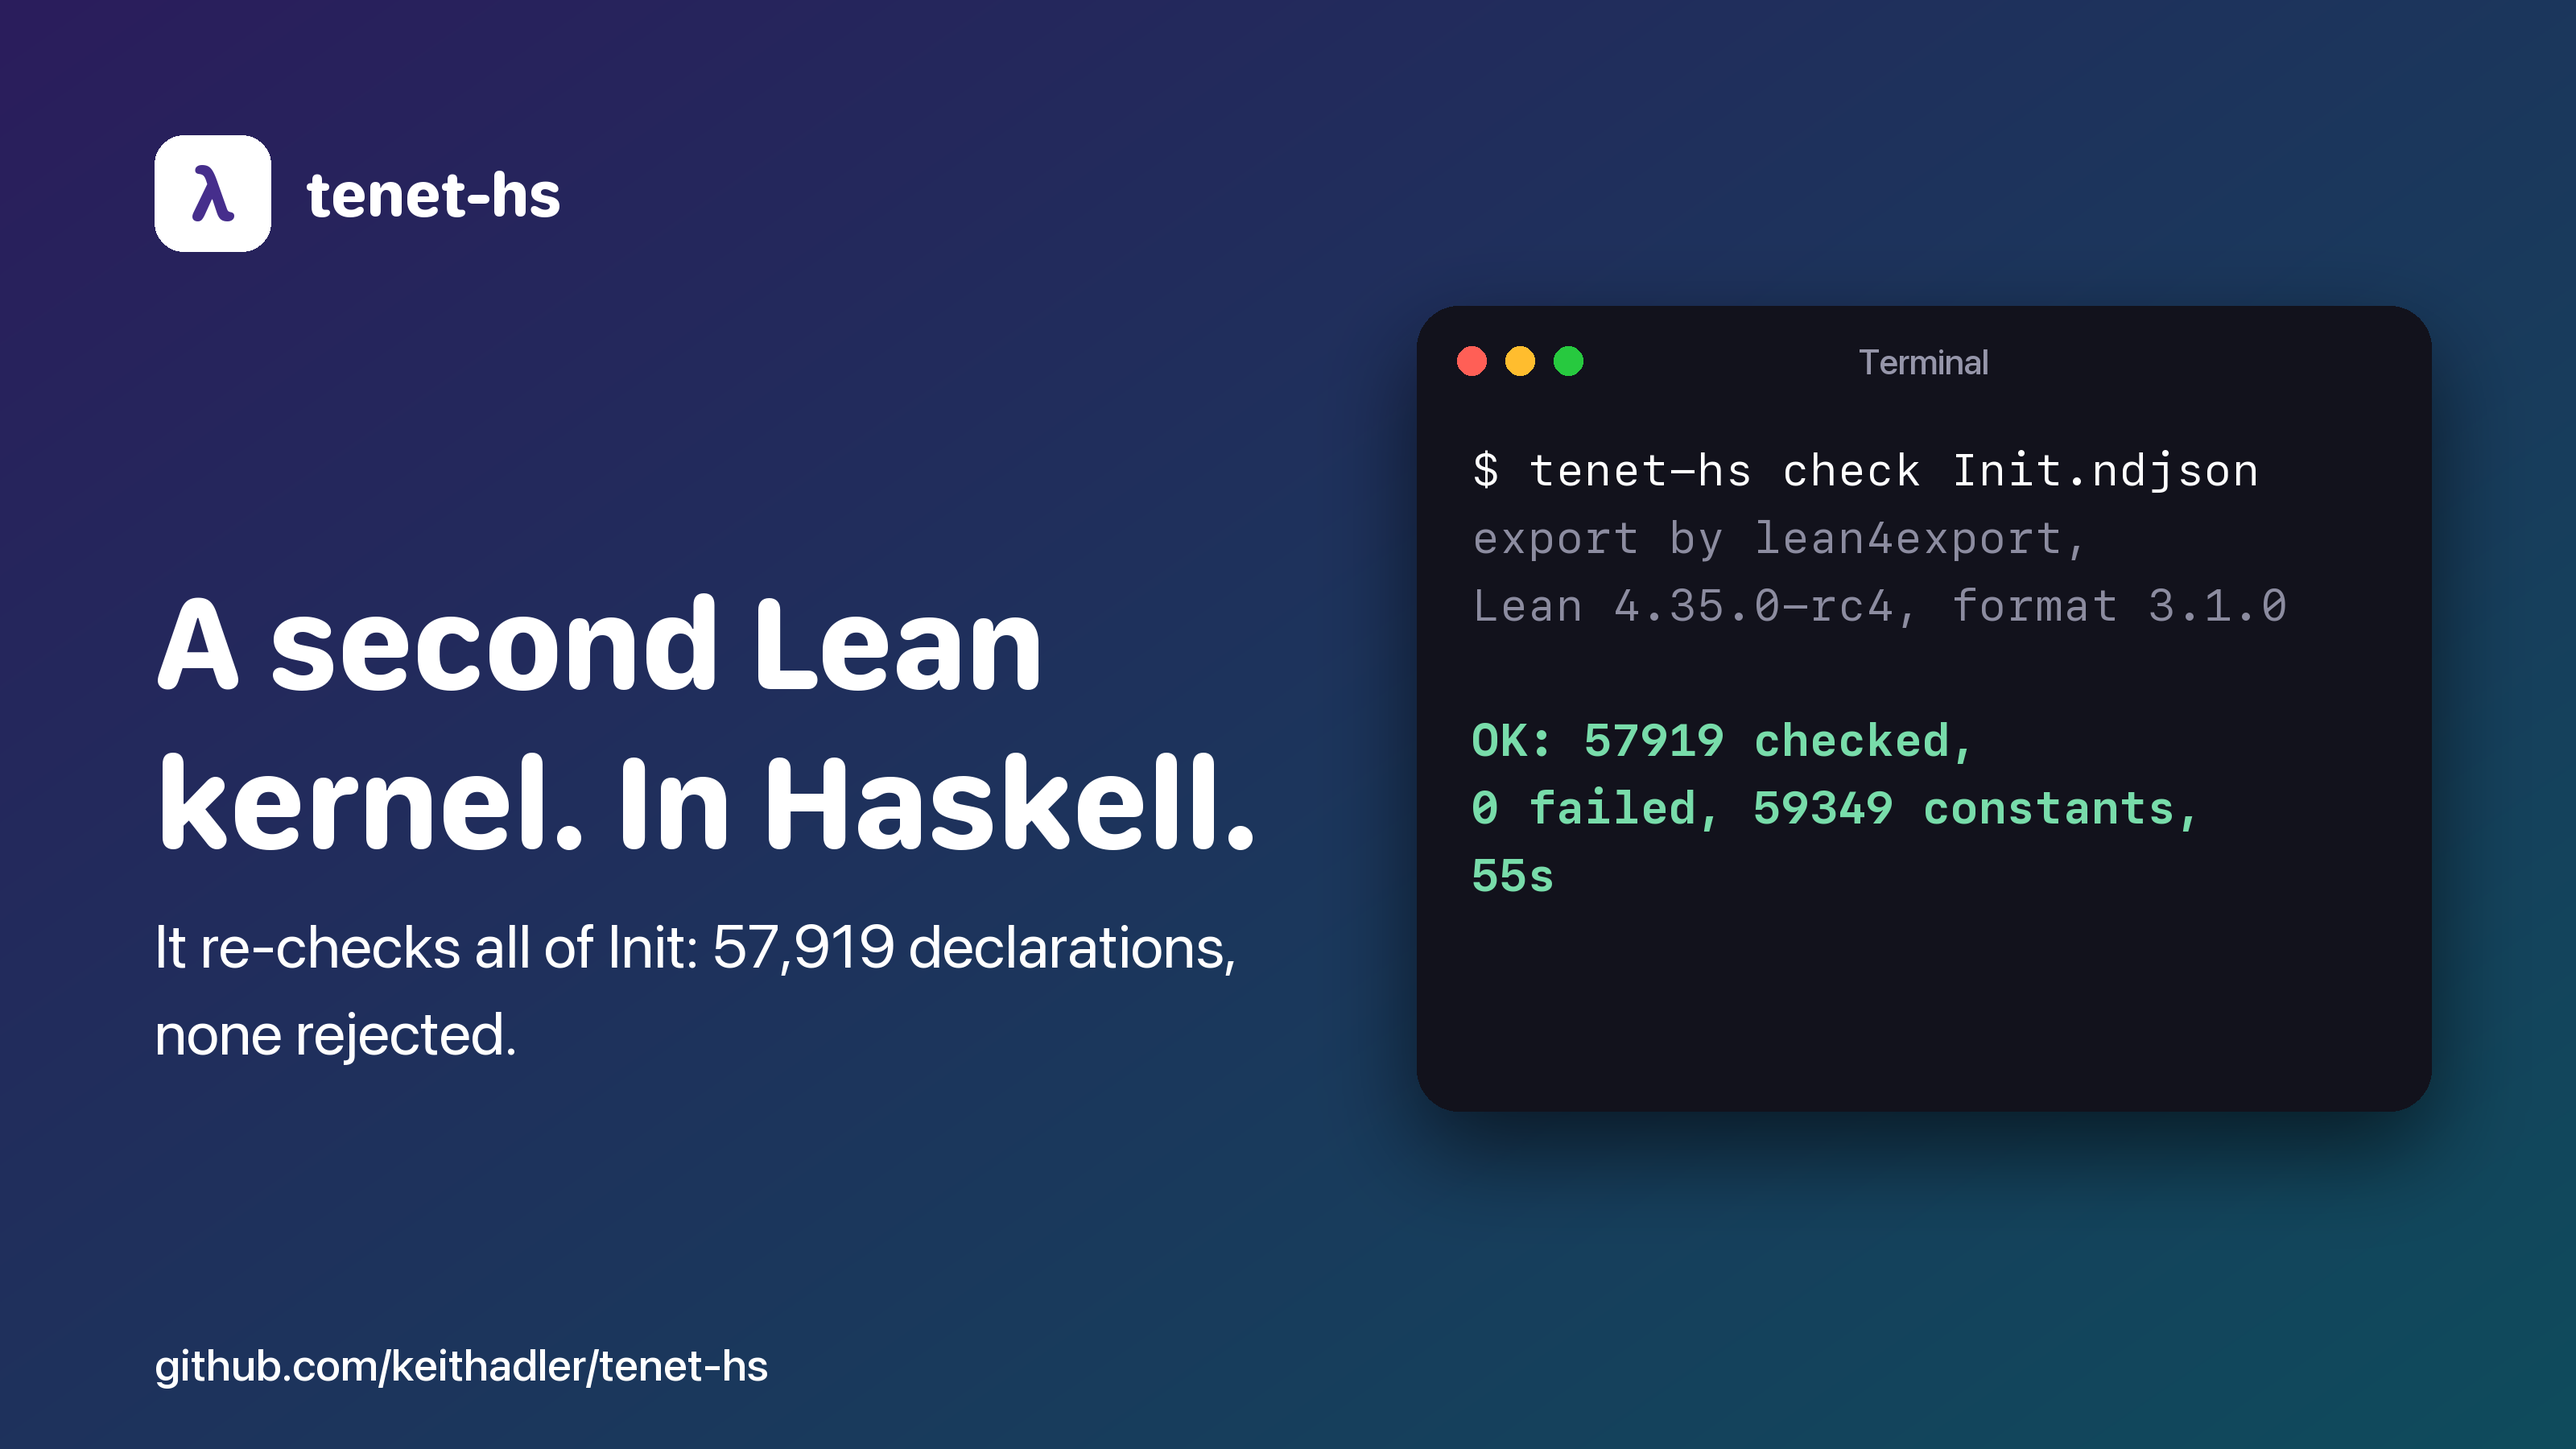
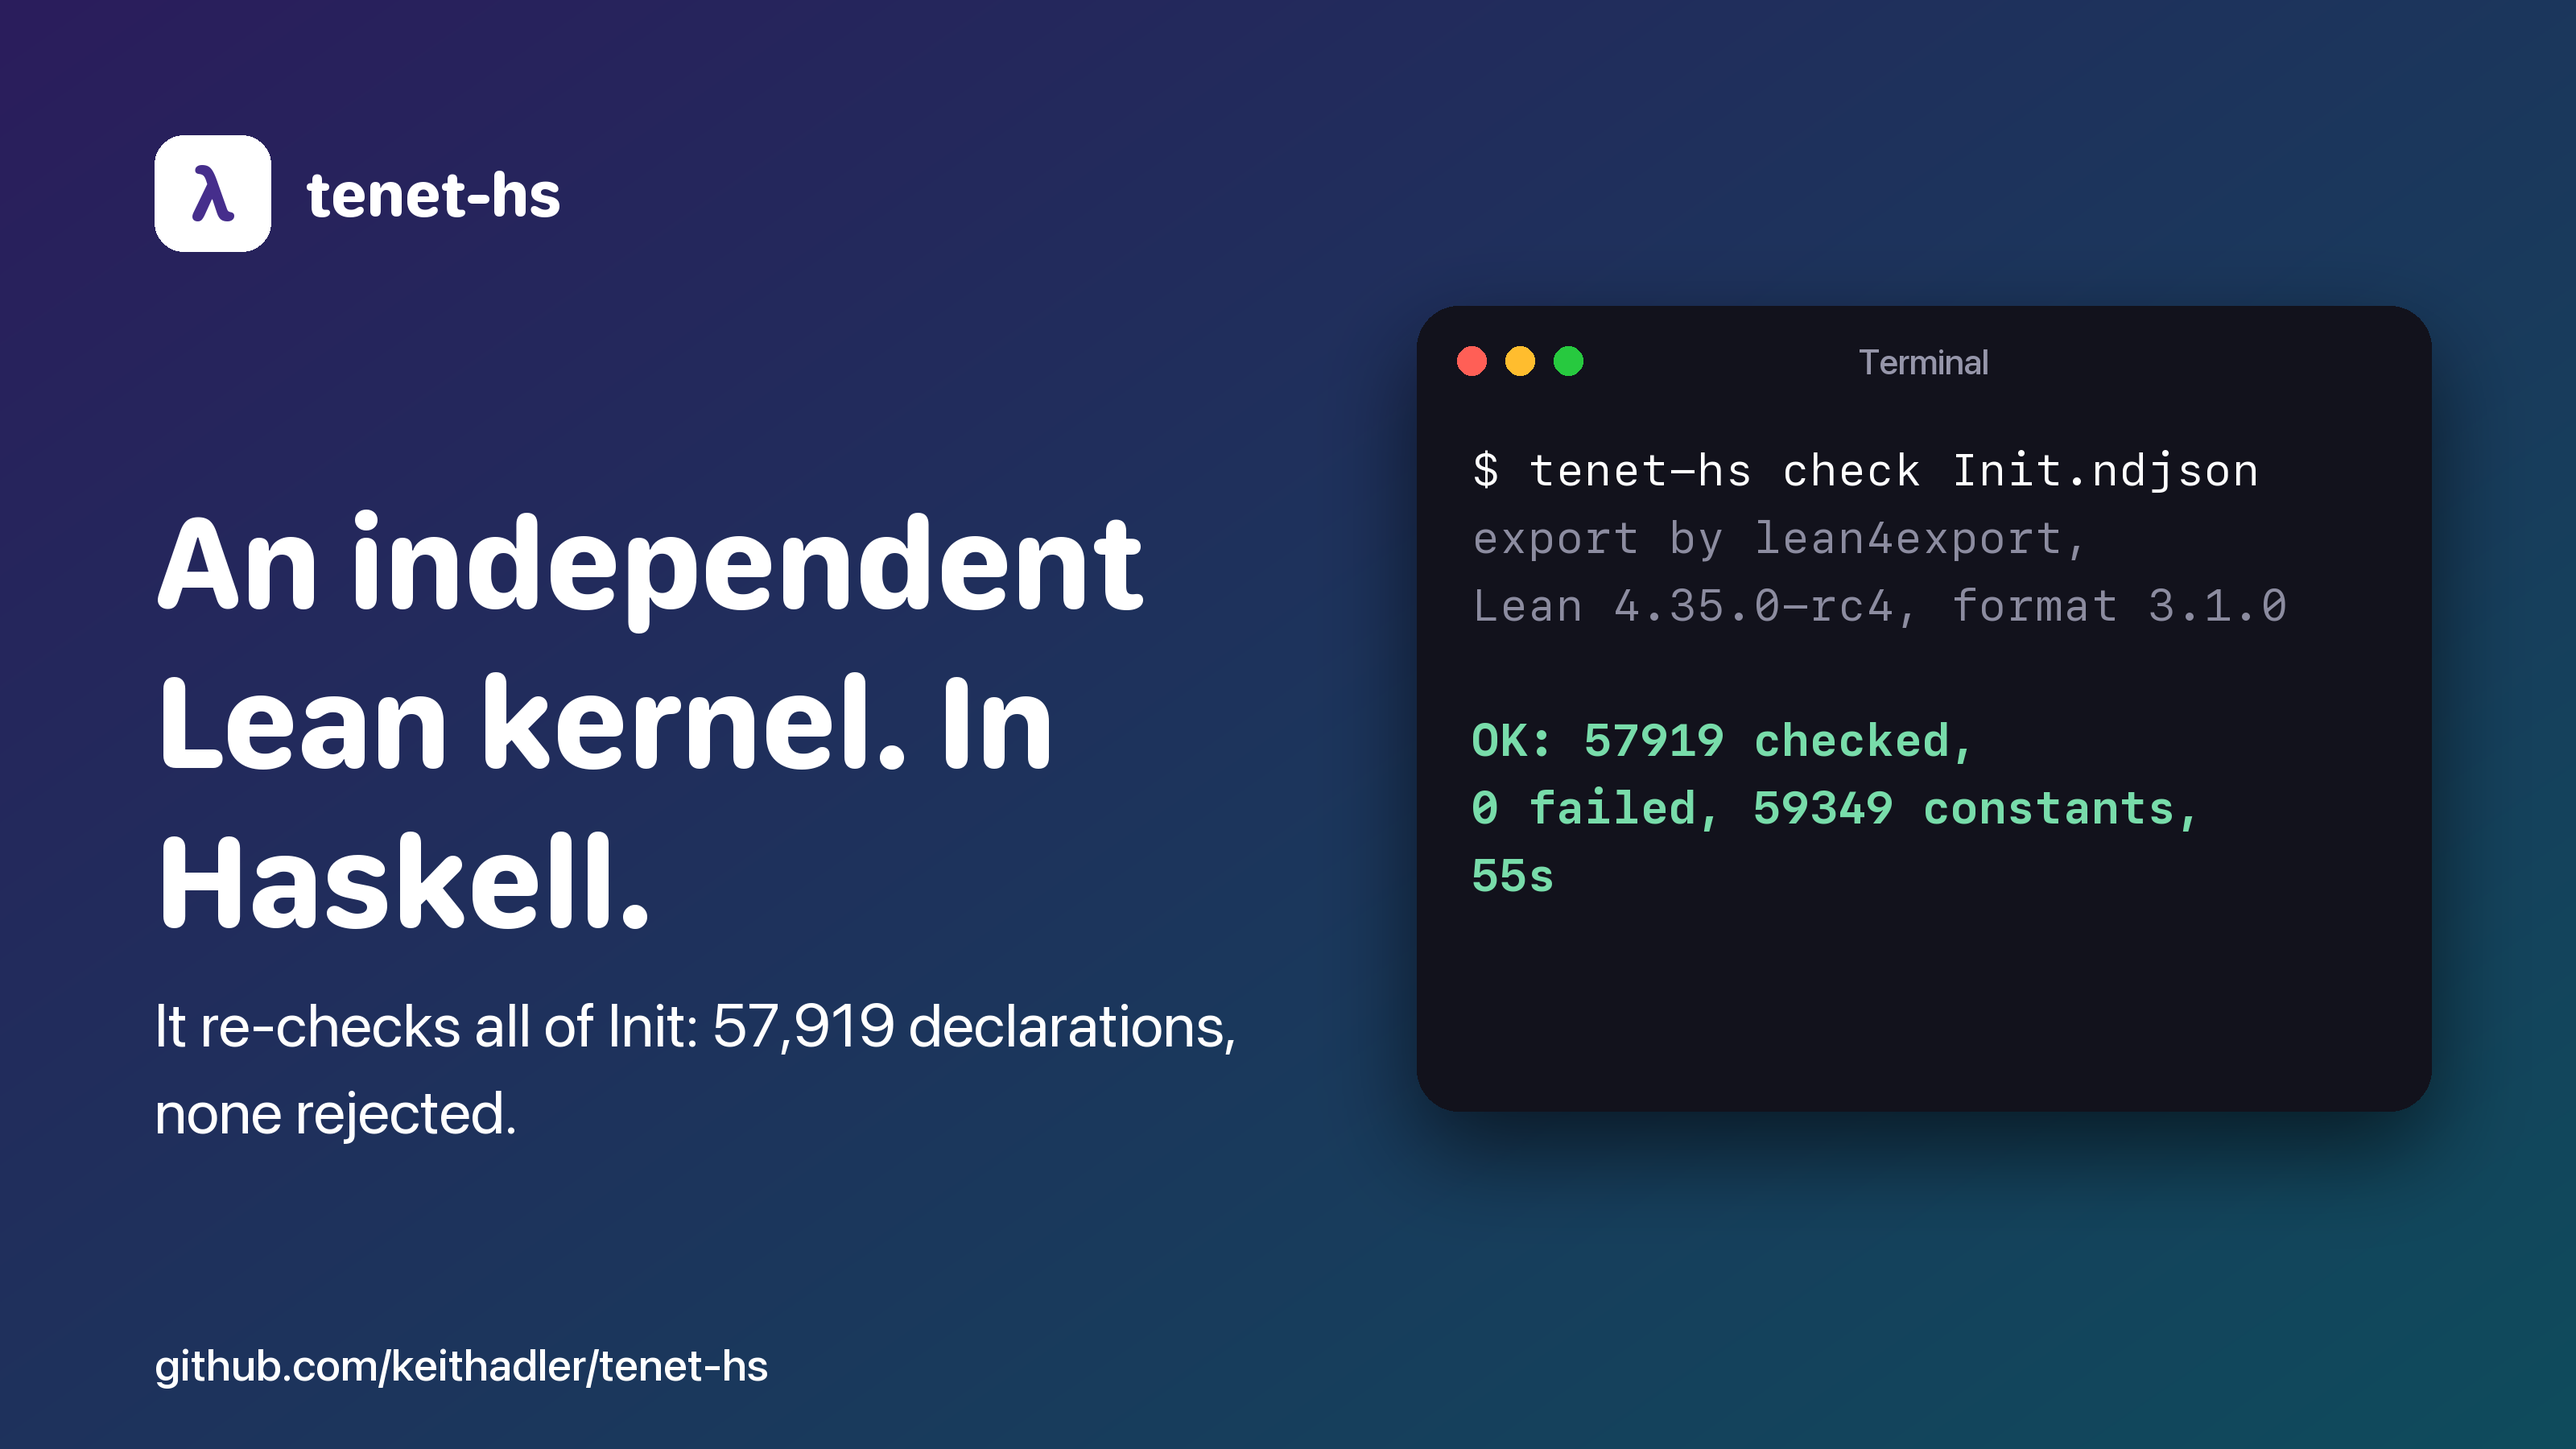
Say 'an independent kernel', not 'a second': Tenet and others exist
Corrects the hero card, the post and one README sentence, and adds the post
text for the functional-language angle.

Changed region(s): [[0.0625, 0.3422, 0.5, 0.8089]]

diff --git a/tools/promo.py b/tools/promo.py
@@ -135,7 +135,7 @@ def main():
     F = FACTS
     paths = []
     paths.append(card("1-hero.png", (43, 29, 92), (15, 76, 92),
-        "A second Lean kernel. In Haskell.",
+        "An independent Lean kernel. In Haskell.",
         f"It re-checks all of Init: {F['init_decls']} declarations, none rejected.",
         win={"box": (880, 190, 1510, 690), "title": "Terminal",
              "lines": [("$ tenet-hs check Init.ndjson", "cmd"), ("export by lean4export,", "dim"), ("Lean 4.35.0-rc4, format 3.1.0", "dim"),

diff --git a/README.md b/README.md
@@ -31,7 +31,7 @@ match.
 Be precise about what independence means here. The code shares nothing with Lean or Tenet. The
 algorithm is not independent: the goal is to match the reference kernel's behavior, so its
 structure is followed on purpose. A flaw in the kernel's *design* is one tenet-hs would likely
-reproduce rather than catch. What a second and third implementation do buy is protection against
+reproduce rather than catch. What each additional implementation does buy is protection against
 *implementation* bugs, and a cheap way to find them: two kernels that disagree on a declaration
 have found something. This one already has.
 
